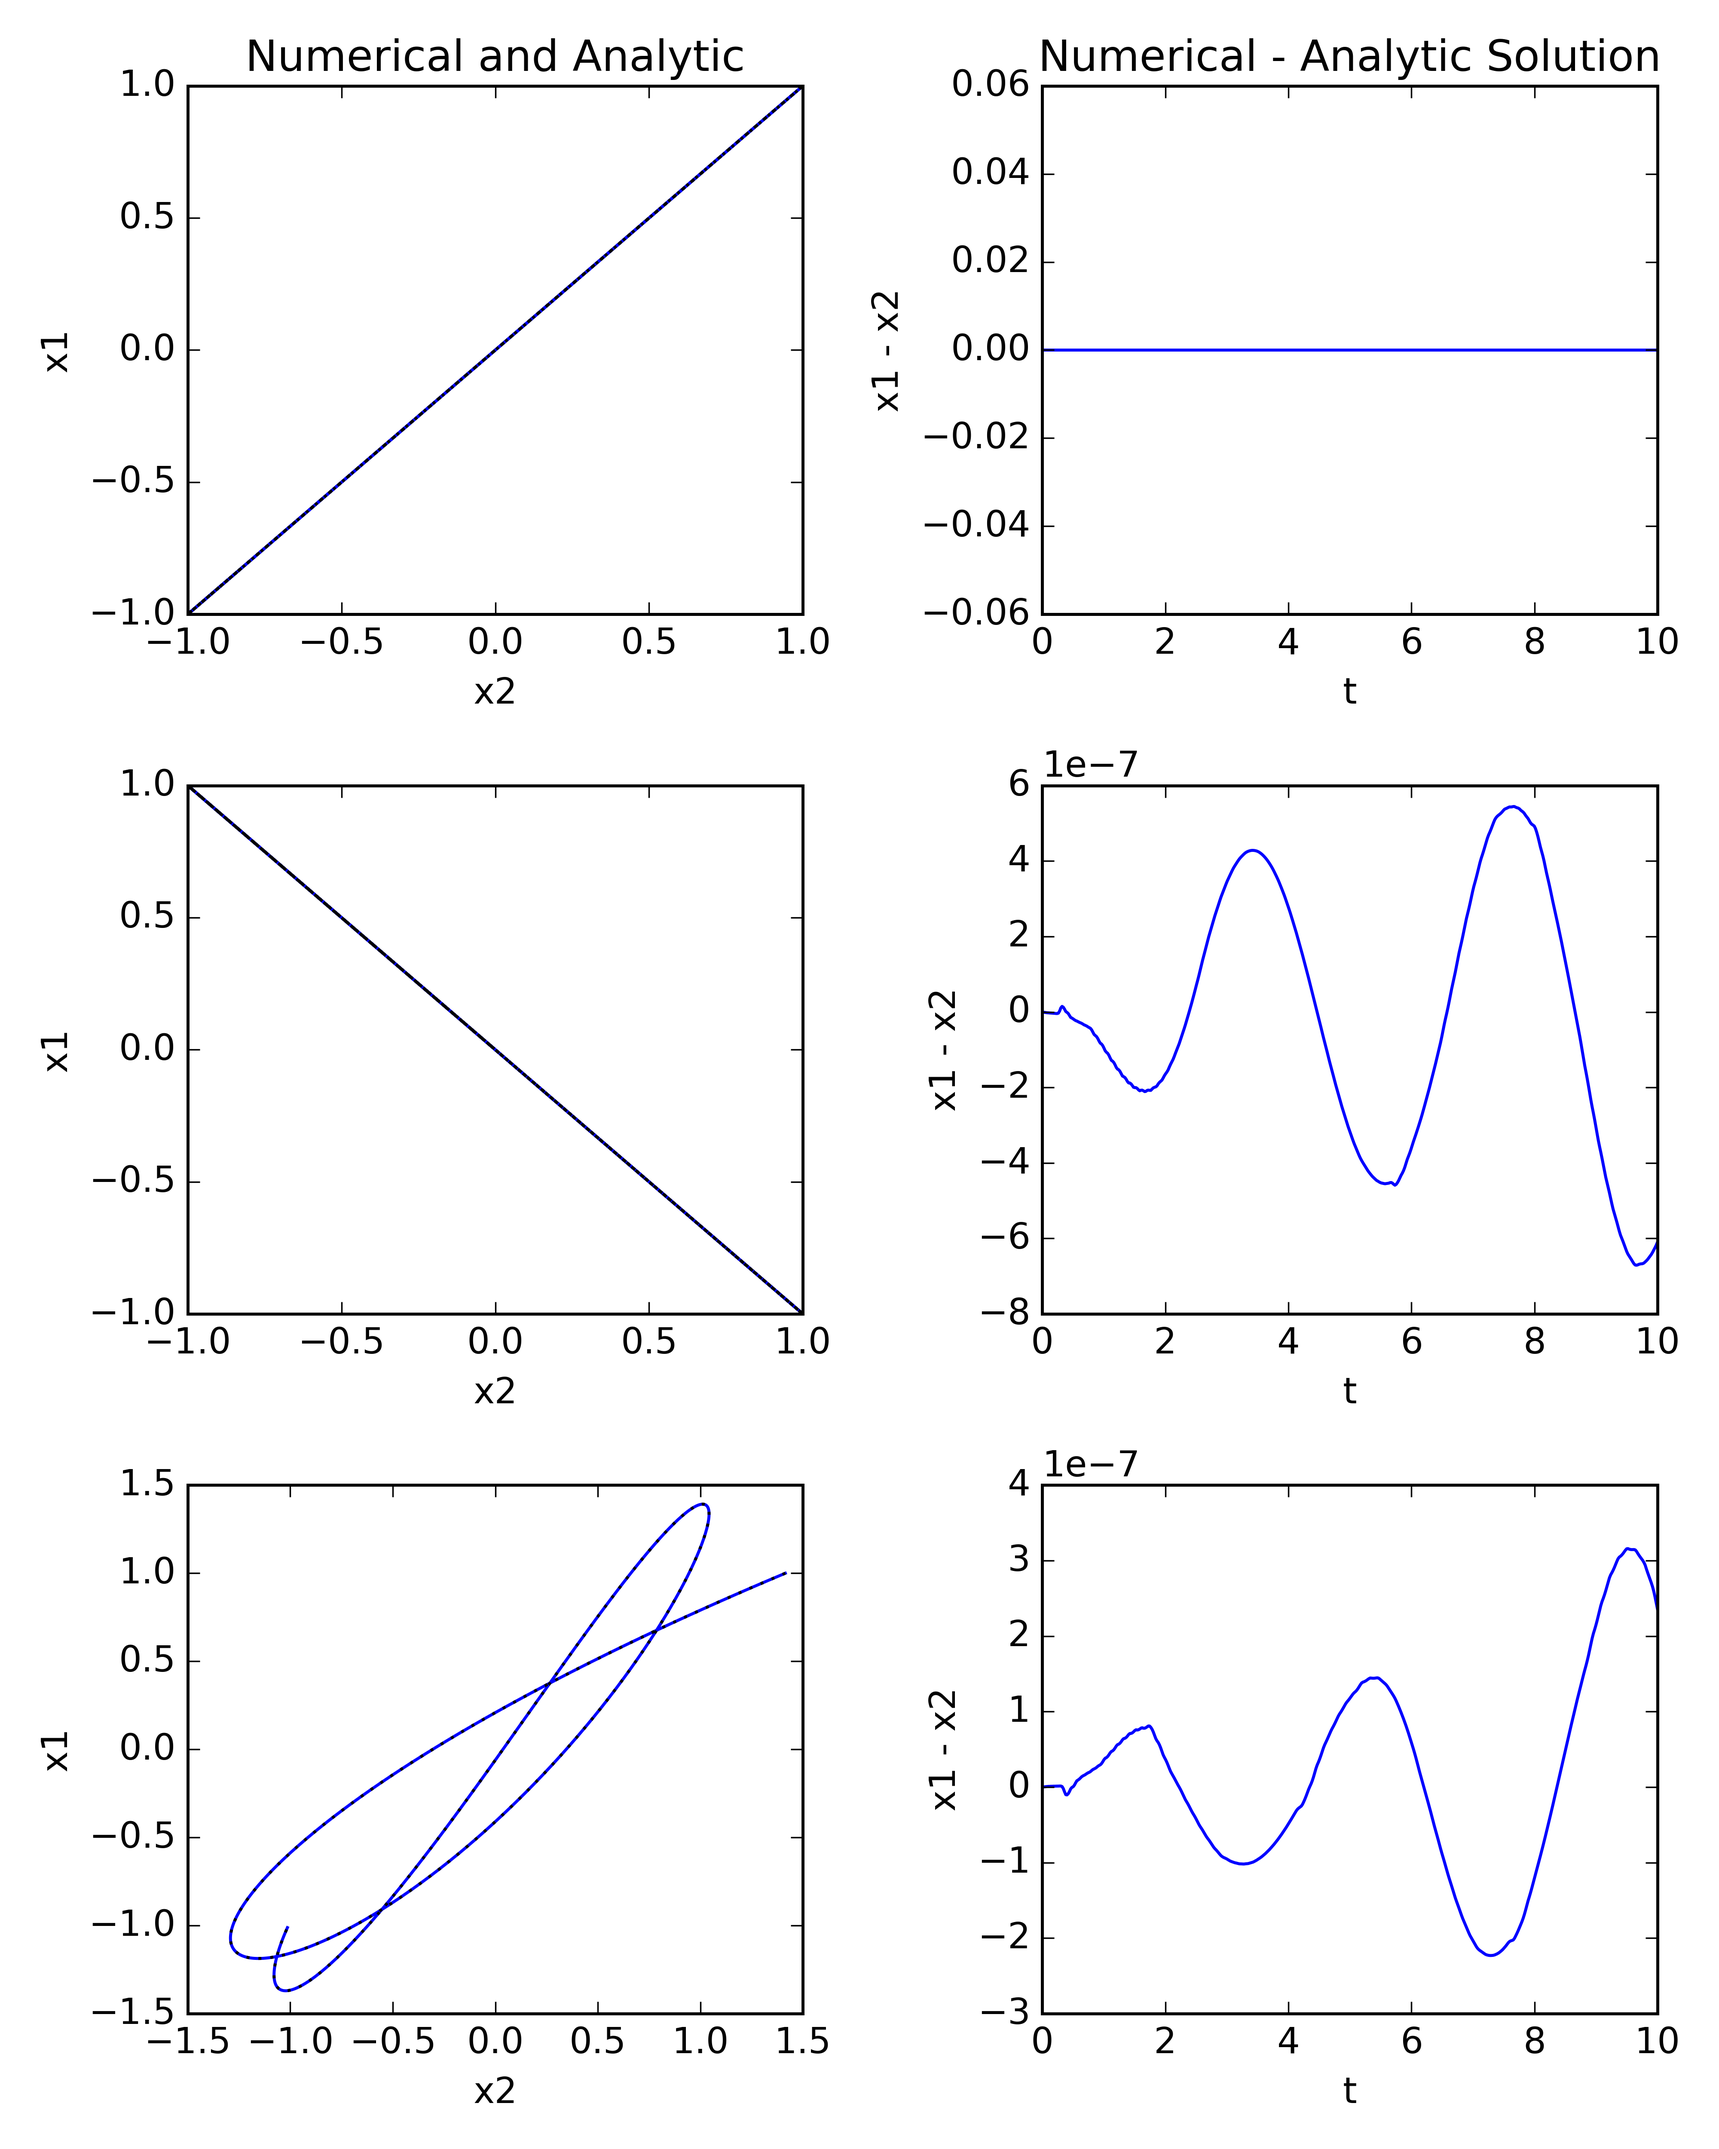
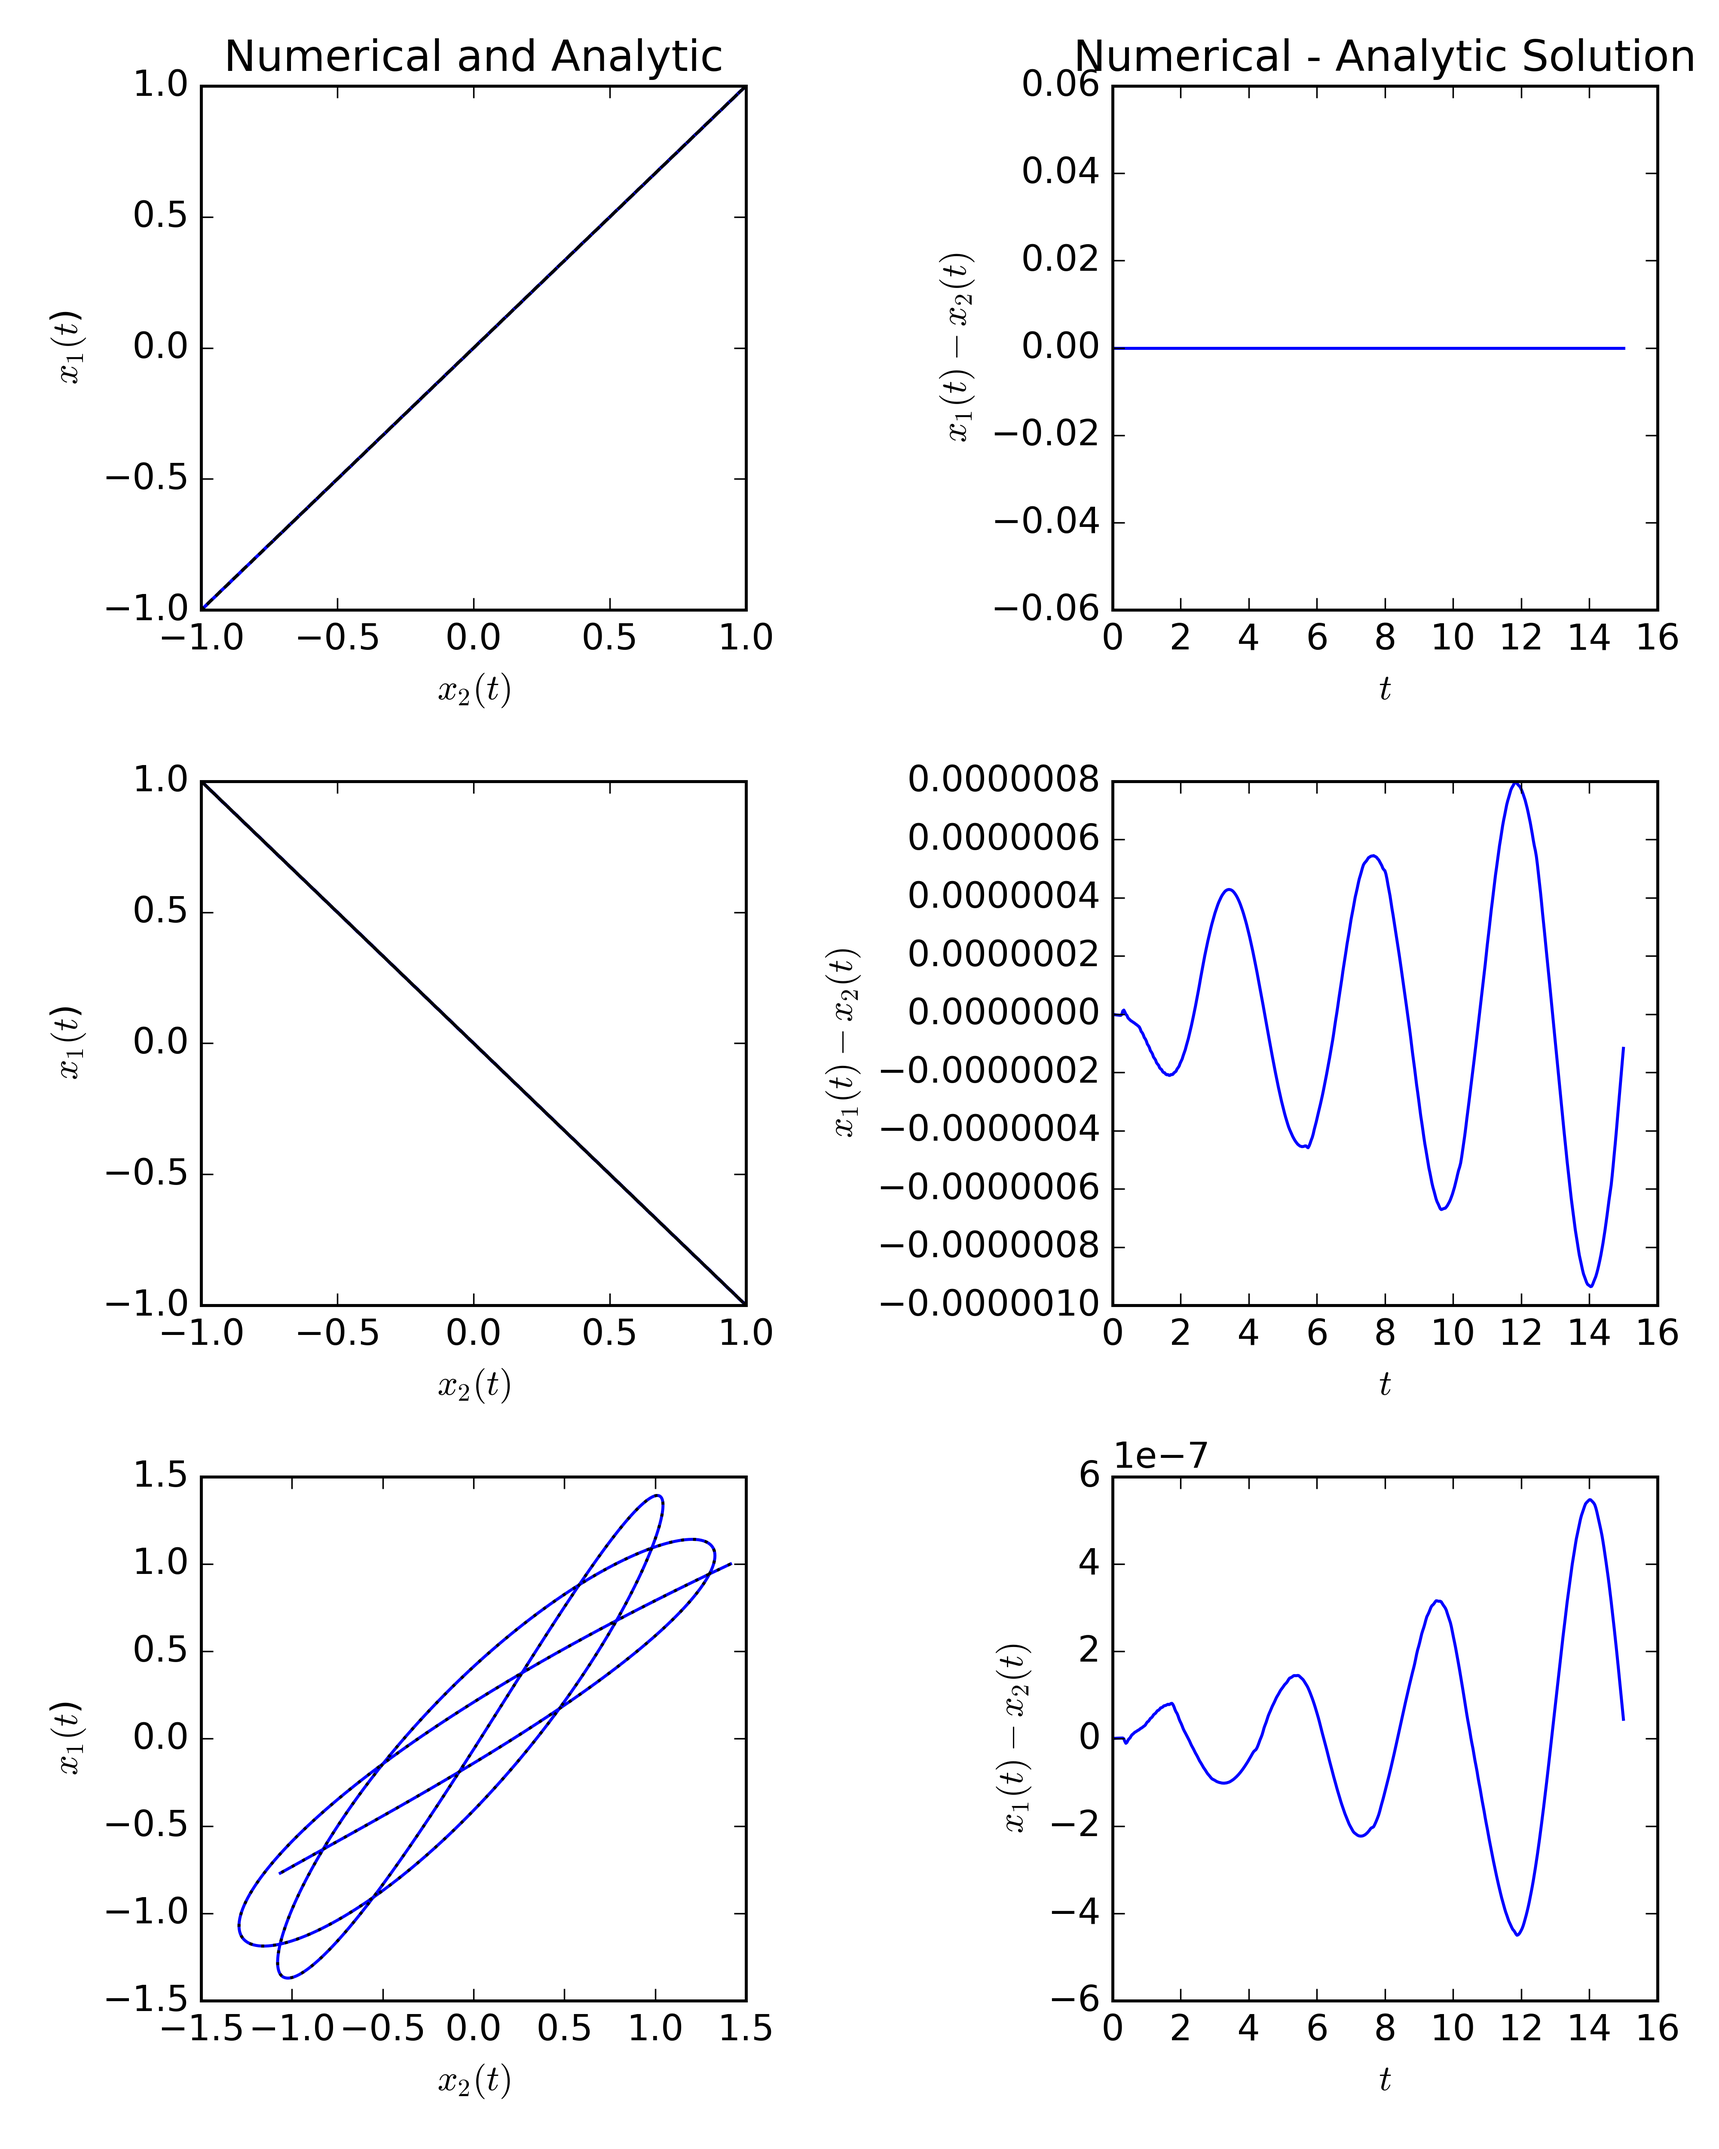
Improve Plot Labels

diff --git a/python/PHYS363/A5q1.py b/python/PHYS363/A5q1.py
@@ -19,7 +19,7 @@ k = 1.0
 e = 0.5
 x0 = 1.
 
-t = np.linspace(0, 10,  500)
+t = np.linspace(0, 15,  500)
 
 ## Analytic Solution
 w1 = np.sqrt(k/m)
@@ -52,21 +52,18 @@ axes[0,1].set_title('Numerical - Analytic Solution')
 axes[0,0].set_title('Numerical and Analytic')
 
 for i,psi_0 in enumerate(IC):
-    figname = 'a5q%s.png' % i
     psi = scipy.integrate.odeint(psi_prime, psi_0, t)
     axes[i,0].plot(psi[:,1], psi[:,0], color='b', label='Numerical Solution')
     a, b = superpositions[i]
-    print a, b
     xs1, xs2 = a*x_1 + b*x_2
     error = (psi[:,1]-psi[:,0]) - (xs2-xs1)
-    print "Max Absolute Error:", np.max(np.abs(error))
     axes[i,0].plot(xs2, xs1, color='k', label='Analytic Solution', ls=':')
     axes[i,1].plot(t, error)
-    axes[i,0].set_xlabel('x2')
-    axes[i,0].set_ylabel('x1')
+    axes[i,0].set_xlabel('$x_2(t)$')
+    axes[i,0].set_ylabel('$x_1(t$)')
     # axes[i,0].legend()
-    axes[i,1].set_xlabel('t')
-    axes[i,1].set_ylabel('x1 - x2')
+    axes[i,1].set_xlabel('$t$')
+    axes[i,1].set_ylabel('$x_1(t) - x_2(t)$')
 
 plt.tight_layout()
 fig.savefig('coupled_oscillator_x1_x2.png', dpi=500)
